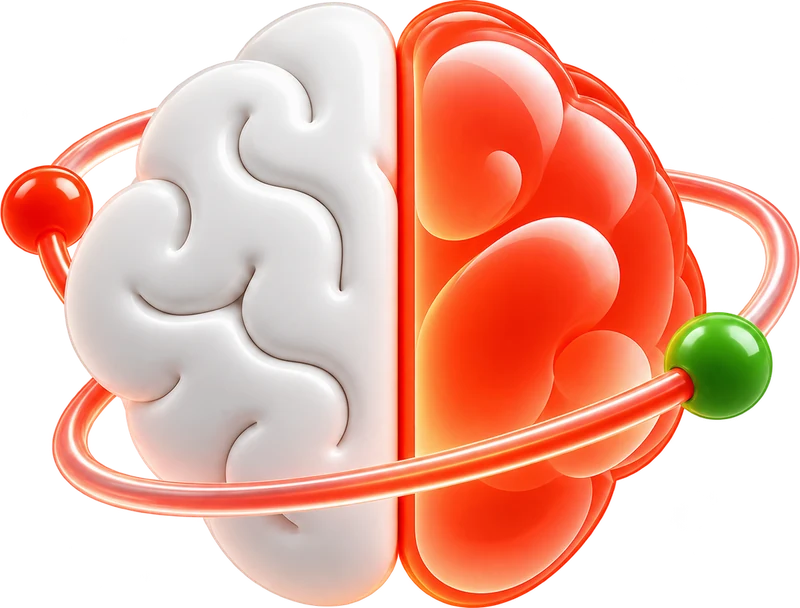
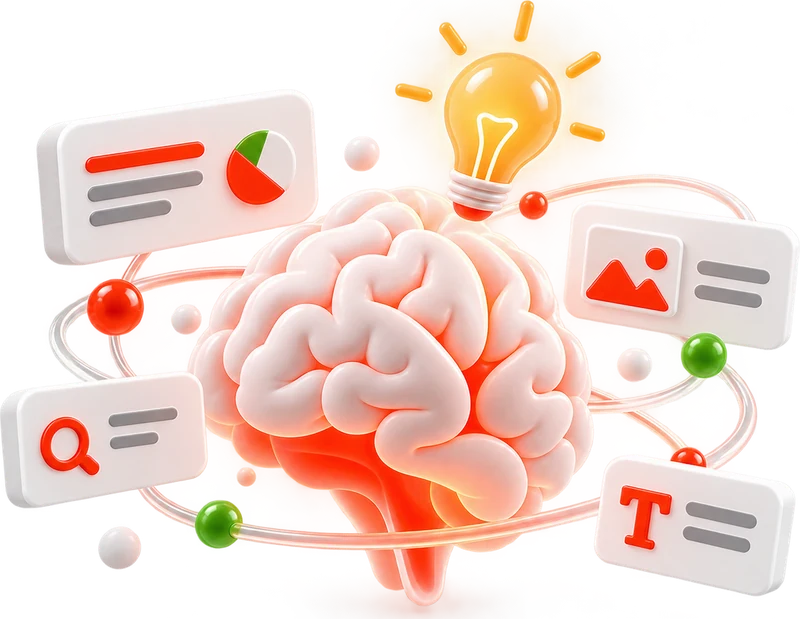
Big idea: new Think illustration (brain + bulb)
Claude-Session: https://claude.ai/code/session_01V2kh93o219NzAituSXsecb

diff --git a/index.html b/index.html
@@ -134,7 +134,7 @@
     </div>
     <!-- one picture per word; set data-src on a slot to use the real file -->
     <div class="idea-art" id="ideaArt">
-      <figure class="ph idea-pic on" data-ph="render" data-src="assets/img/idea-think.webp" data-alt="A brain, half white and half glowing orange, with an orbit ring around it"></figure>
+      <figure class="ph idea-pic on" data-ph="render" data-src="assets/img/idea-think.webp" data-alt="A glowing brain with a lit bulb above it, surrounded by research, image and text cards"></figure>
       <figure class="ph idea-pic" data-ph="render" data-src="assets/img/idea-design.webp" data-alt="Design tools around a canvas: a pen drawing a shape, image, layers and colour swatches"></figure>
       <figure class="ph idea-pic" data-ph="render" data-src="assets/img/idea-build.webp" data-alt="A code block at the centre, wired to a terminal, a checklist, settings and a test flask"></figure>
       <figure class="ph idea-pic" data-ph="render" data-src="assets/img/idea-move.webp" data-alt="A rocket launching from clouds, surrounded by rising charts"></figure>
